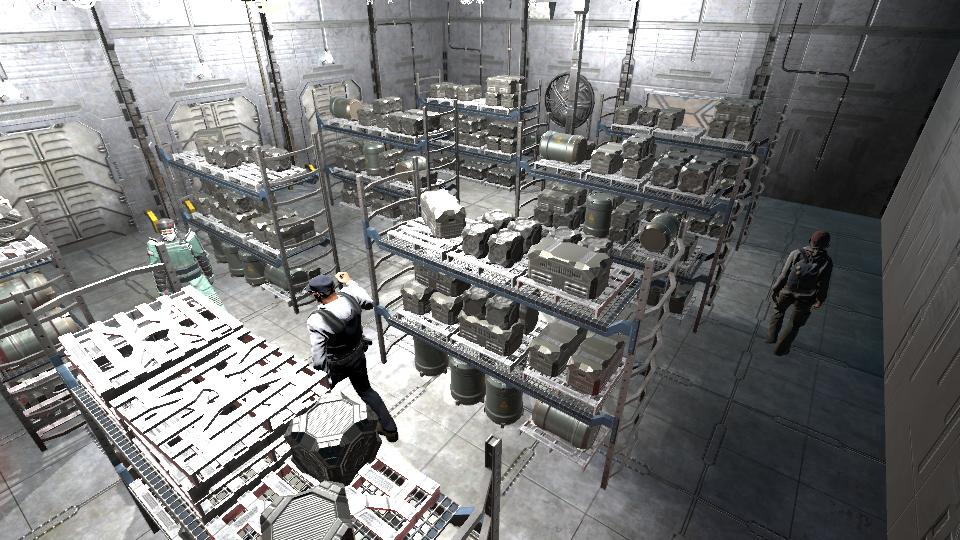
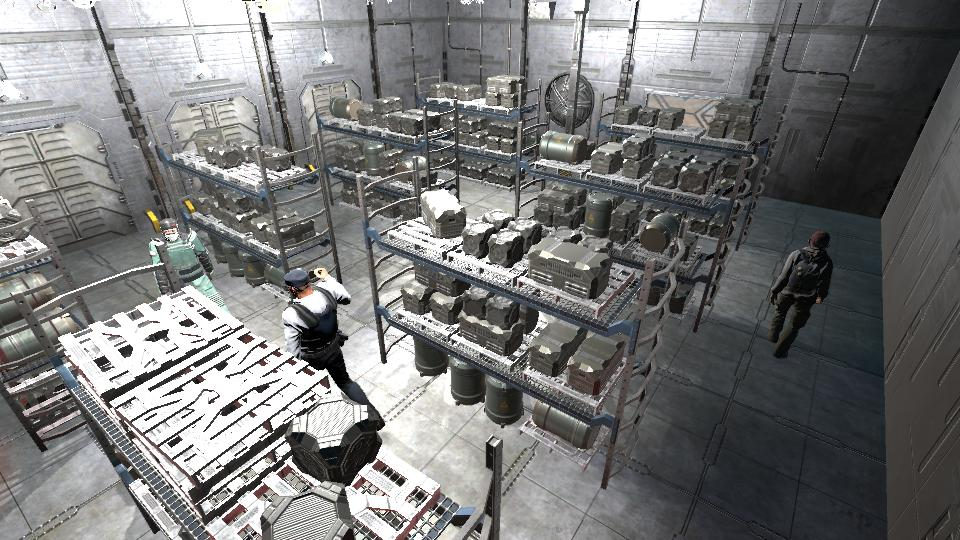
guard arrives to control station

diff --git a/UnityEvidencia2/Assets/Scripts/WebSocketClient.cs b/UnityEvidencia2/Assets/Scripts/WebSocketClient.cs
@@ -23,7 +23,7 @@ public class WebSocketClient : MonoBehaviour
     private readonly Queue<Action> mainThreadQueue = new Queue<Action>();
 
     public float droneSpeed = 5f;
-    public float guardSpeed = 3f;
+    public float guardSpeed = 5f;
 
     private void Start()
     {
@@ -283,29 +283,29 @@ public class WebSocketClient : MonoBehaviour
 
 
 
-private void HandleCameraAlert(Vector3 alertPosition)
-{
-    Debug.Log($"[Unity] Camera Alert Received! Drone moving to investigate position: {alertPosition}");
-    lock (mainThreadQueue)
+    private void HandleCameraAlert(Vector3 alertPosition)
     {
-        mainThreadQueue.Enqueue(() =>
+        Debug.Log($"[Unity] Camera Alert Received! Drone moving to investigate position: {alertPosition}");
+        lock (mainThreadQueue)
         {
-            StopAllCoroutines();
-            isInvestigating = true;
-
-            StartCoroutine(MoveDrone(alertPosition, () =>
+            mainThreadQueue.Enqueue(() =>
             {
-                Debug.Log("[Unity] Drone arrived at investigation site. Starting investigation...");
-                StartCoroutine(InvestigateArea(() =>
+                StopAllCoroutines();
+                isInvestigating = true;
+
+                StartCoroutine(MoveDrone(alertPosition, () =>
                 {
-                    Debug.Log("[Unity] Investigation complete. Resuming patrol...");
-                    currentWaypointIndex = 0;
-                    isInvestigating = false;
+                    Debug.Log("[Unity] Drone arrived at investigation site. Starting investigation...");
+                    StartCoroutine(InvestigateArea(() =>
+                    {
+                        Debug.Log("[Unity] Investigation complete. Resuming patrol...");
+                        currentWaypointIndex = 0;
+                        isInvestigating = false;
+                    }));
                 }));
-            }));
-        });
+            });
+        }
     }
-}
 
 
     private IEnumerator MoveDrone(Vector3 target, Action onArrival)
@@ -454,30 +454,6 @@ private void HandleCameraAlert(Vector3 alertPosition)
         }
     }
 
-    public void HandleDroneAlert(Vector3 alertPosition)
-    {
-        Debug.Log($"Drone Alert Received! Guard moving to investigate position: {alertPosition}");
-        MoveGuard(alertPosition);
-    }
-
-    private IEnumerator MoveGuard(Vector3 target, Action onArrival)
-    {
-        Debug.Log($"Guard moving to target position: {target}");
-        while (Vector3.Distance(guard.transform.position, target) > 0.1f)
-        {
-            float step = droneSpeed * Time.deltaTime;
-            guard.transform.position = Vector3.MoveTowards(guard.transform.position, target, step);
-            yield return null;
-        }
-        Debug.Log("Guard reached the target position.");
-        onArrival?.Invoke();
-    }
-
-    private void MoveGuard(Vector3 target)
-    {
-        StartCoroutine(MoveGuard(target, null));
-    }
-
     private void SendDroneCameraFrame(byte[] imageBytes)
     {
         if (ws.ReadyState == WebSocketState.Open)
@@ -491,6 +467,93 @@ private void HandleCameraAlert(Vector3 alertPosition)
             string jsonMessage = JsonUtility.ToJson(message);
             ws.Send(jsonMessage);
         }
+    }
+
+    public void HandleDroneAlert(Vector3 alertPosition)
+    {
+        Debug.Log($"[Unity] Drone Alert Received! Guard alerted");
+        
+        lock (mainThreadQueue)
+        {
+            mainThreadQueue.Enqueue(() =>
+            {
+                StopAllCoroutines();
+                isDroneControlled = true;
+
+                StartCoroutine(MoveGuard(controlStation, () =>
+                {
+                    Debug.Log("[Unity] Guard arrived to control station. Starting drone control...");
+
+                    SendGuardAtControlStationMessage();
+
+                    StartCoroutine(HandleControlStationProcedure(() =>
+                    {
+                        Debug.Log("[Unity] Guard finished drone control. Resuming patrol...");
+                        currentWaypointIndex = 0;
+                        isDroneControlled = false;
+                    }));
+                }));
+            });
+        }
+
+        // después de mover guard, añadir algo de que toma control del dron
+    }
+
+    private void SendGuardAtControlStationMessage()
+    {
+        if (ws.ReadyState == WebSocketState.Open)
+        {
+            var message = new Message
+            {
+                type = "guard_at_control_station",
+                status = "READY"
+            };
+
+            string jsonMessage = JsonUtility.ToJson(message);
+            ws.Send(jsonMessage);
+        }
+    }
+
+    private IEnumerator HandleControlStationProcedure(Action onComplete)
+    {
+        Debug.Log("Guard taking control of the drone...");
+        // aquí poner lo que sea que haga el guardia con el dron
+        // Wait for a few seconds to simulate drone control
+        for (int i = 0; i < 10; i++)
+        {
+            yield return null;
+        }
+
+        onComplete?.Invoke();
+    }
+
+    private IEnumerator MoveGuard(Vector3 target, Action onArrival)
+    {
+        Debug.Log($"Guard moving to control station: {target}");
+        while (Vector3.Distance(guard.transform.position, target) > 0.1f)
+        {
+            float step = guardSpeed * Time.deltaTime;
+            
+            guard.transform.position = Vector3.MoveTowards(guard.transform.position, target, step);
+            
+            Vector3 direction = (target - guard.transform.position).normalized;
+            if (direction != Vector3.zero)
+            {
+                Quaternion toRotation = Quaternion.LookRotation(direction, Vector3.up);
+                guard.transform.rotation = Quaternion.RotateTowards(guard.transform.rotation, toRotation, step * 100);
+            }
+            
+            yield return null;
+        }
+        
+        Debug.Log("Guard reached the control station.");
+        
+        onArrival?.Invoke();
+    }
+
+    private void MoveGuard(Vector3 target)
+    {
+        StartCoroutine(MoveGuard(target, null));
     }
 
     private void OnError(object sender, WebSocketSharp.ErrorEventArgs e)

diff --git a/UnityEvidencia2/Assets/Scripts/GuardController.cs b/UnityEvidencia2/Assets/Scripts/GuardController.cs
@@ -2,20 +2,26 @@
 using UnityEngine;
 using UnityEngine.AI;
 using System.Collections.Generic;
+using System.Collections;
 
 public class GuardController : MonoBehaviour
 {
     [Header("Guard Settings")]
     [SerializeField] private float moveSpeed = 3.5f;
     [SerializeField] private float catchDistance = 2f;
+    [SerializeField] private float controlStationStayDuration = 10f;
     //[SerializeField] private float rotationSpeed = 100f;
 
     private NavMeshAgent agent;
     private int currentWaypointIndex = 0;
     private bool isMovingToTarget = false;
-    private Animator animator; // If you have animations
+    private Animator animator; 
     private GameController gameController;
     private List<Vector3> patrolRoute;
+
+    private Vector3 controlStationPosition;
+    private bool isAtControlStation = false;
+    private float controlStationTimer = 0f;
 
     void Start()
     {
@@ -42,6 +48,8 @@ public class GuardController : MonoBehaviour
             new Vector3(4, 7, 27), new Vector3(14, 7, 27), new Vector3(21, 7, 27)
         };
 
+        controlStationPosition = new Vector3(14f, 0f, 1f);
+
         MoveToNextWaypoint();
     }
 
@@ -50,11 +58,22 @@ public class GuardController : MonoBehaviour
         if (isMovingToTarget)
         {
             agent.SetDestination(agent.destination);
+            
+            // Check if reached the target (could be scavenger or control station)
             if (Vector3.Distance(transform.position, agent.destination) <= catchDistance)
             {
                 isMovingToTarget = false;
-                Debug.Log("Guard caught a scavenger!");
-                OnScavengerCaught();
+                
+                // If at control station, start staying timer
+                if (IsAtControlStation())
+                {
+                    StartCoroutine(StayAtControlStation());
+                }
+                else
+                {
+                    Debug.Log("Guard caught a scavenger!");
+                    OnScavengerCaught();
+                }
             }
         }
         else
@@ -70,6 +89,39 @@ public class GuardController : MonoBehaviour
         {
             animator.SetBool("IsMoving", agent.velocity.magnitude > 0.1f);
         }
+    }
+
+    // New method to move to control station
+    public void MoveToControlStation()
+    {
+        agent.SetDestination(controlStationPosition);
+        isMovingToTarget = true;
+        Debug.Log("Guard moving to control station.");
+    }
+
+    // Check if guard is at control station
+    private bool IsAtControlStation()
+    {
+        return Vector3.Distance(transform.position, controlStationPosition) <= catchDistance;
+    }
+
+    // Coroutine to stay at control station for specified duration
+    private IEnumerator StayAtControlStation()
+    {
+        isAtControlStation = true;
+        Debug.Log("Guard arrived at control station.");
+
+        // Wait for specified number of frames
+        for (float timer = 0; timer < controlStationStayDuration; timer += Time.deltaTime)
+        {
+            yield return null;
+        }
+
+        isAtControlStation = false;
+        Debug.Log("Guard finished staying at control station.");
+
+        // Resume patrol or other previous activities
+        MoveToNextWaypoint();
     }
 
     private void MoveToNextWaypoint()

diff --git a/Agents/Personnel.py b/Agents/Personnel.py
@@ -11,13 +11,13 @@ class Personnel:
             'manual_control_instances': 0
         }
 
-    def take_control_of_drone(self, websocket):
+    async def take_control_of_drone(self, websocket):
         self.drone_control = True
         control_message = {
             "type": "guard_control",
             "status": "TAKE_CONTROL"
         }
-        websocket.send(json.dumps(control_message))
+        await websocket.send(json.dumps(control_message))
         print("Personnel has taken control of the drone.")
 
     def release_control_of_drone(self, websocket):

diff --git a/Server/server.py b/Server/server.py
@@ -66,6 +66,11 @@ async def handler(websocket):
                 target_position = data.get("target_position")
                 await drone.navigate_and_investigate(websocket, target_position)
 
+            elif message_type == "guard_at_control_station":
+                personnel.take_control_of_drone(websocket)
+
+            
+
 
     except Exception as e:
         print(f"[Server] Error: {e}")
